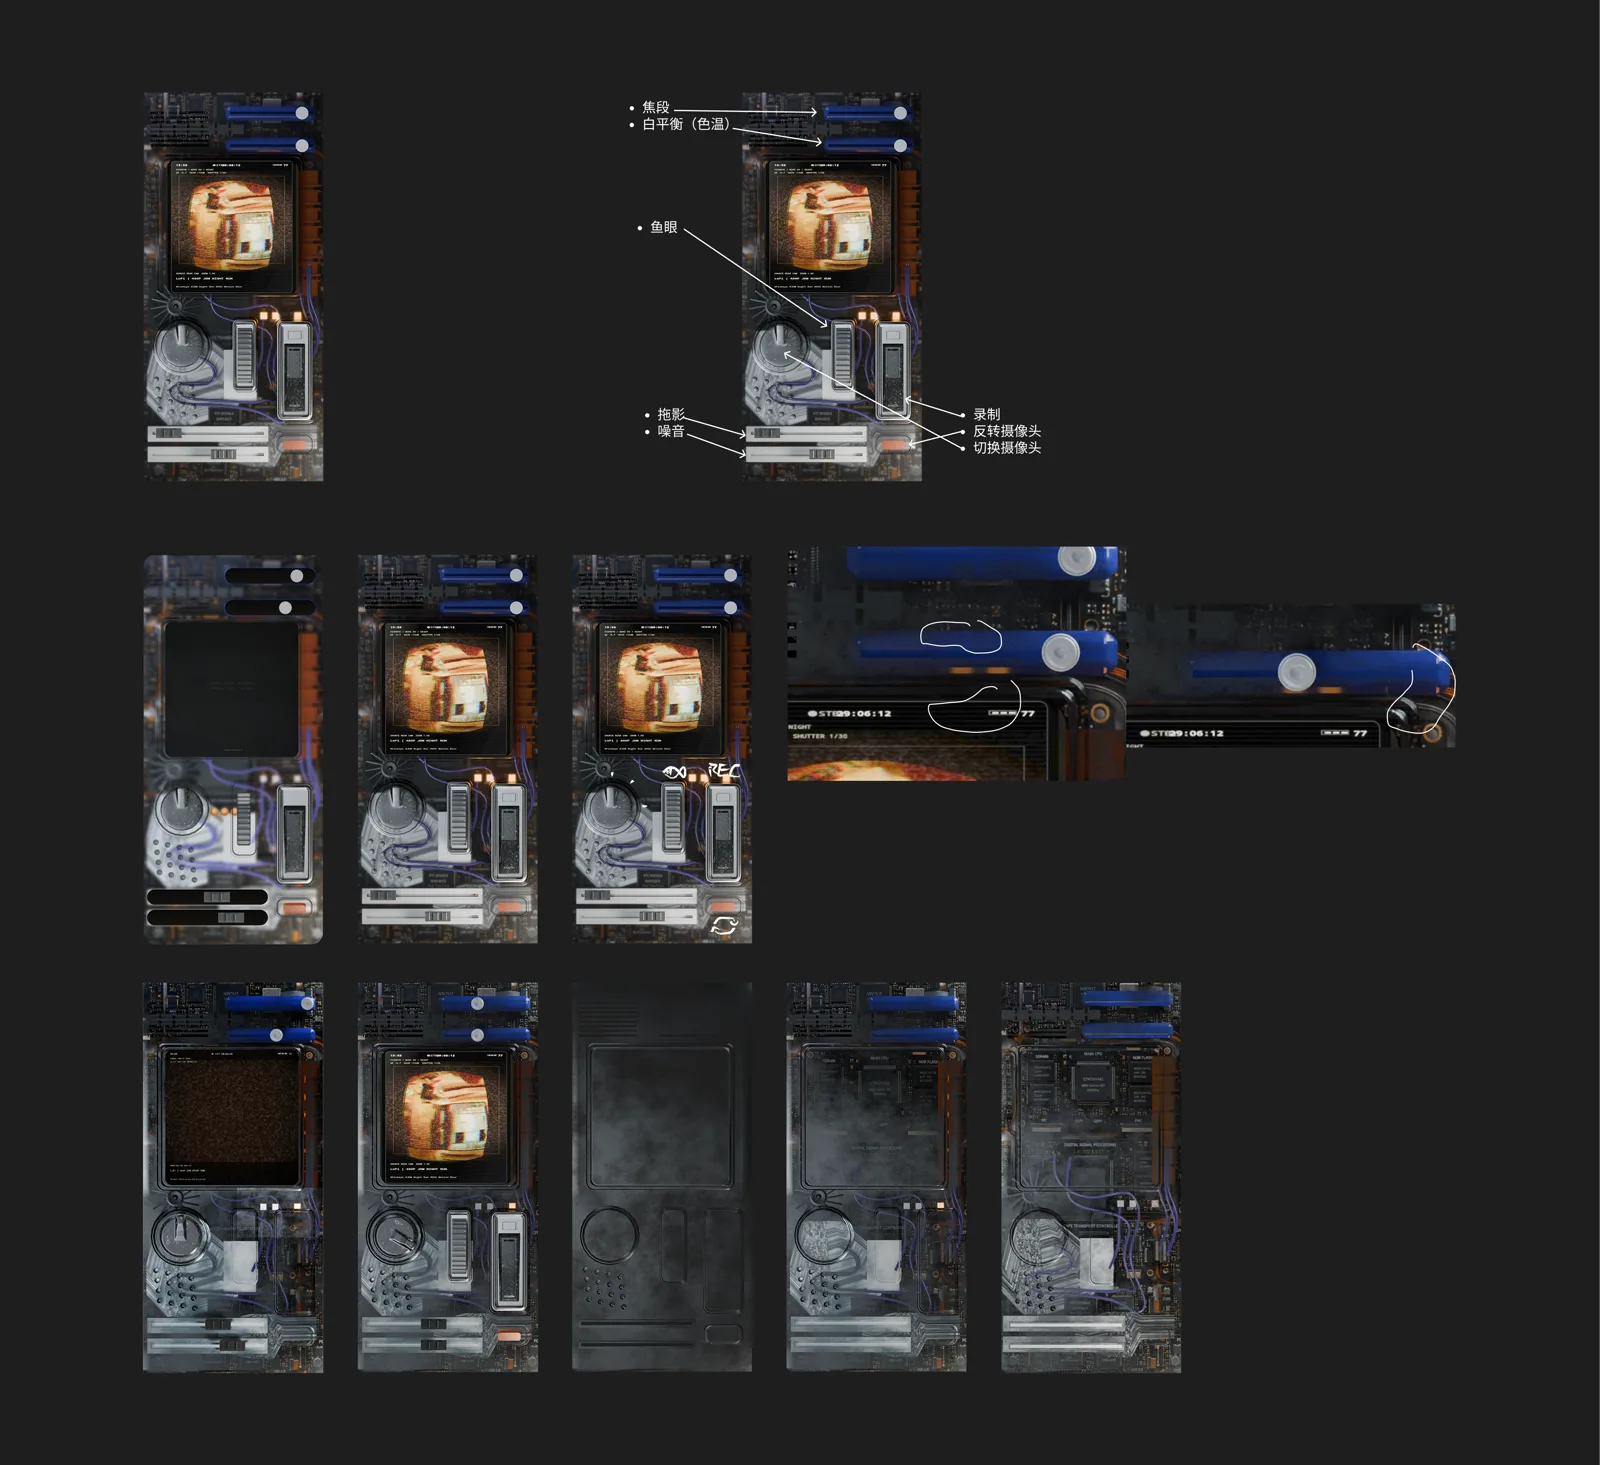
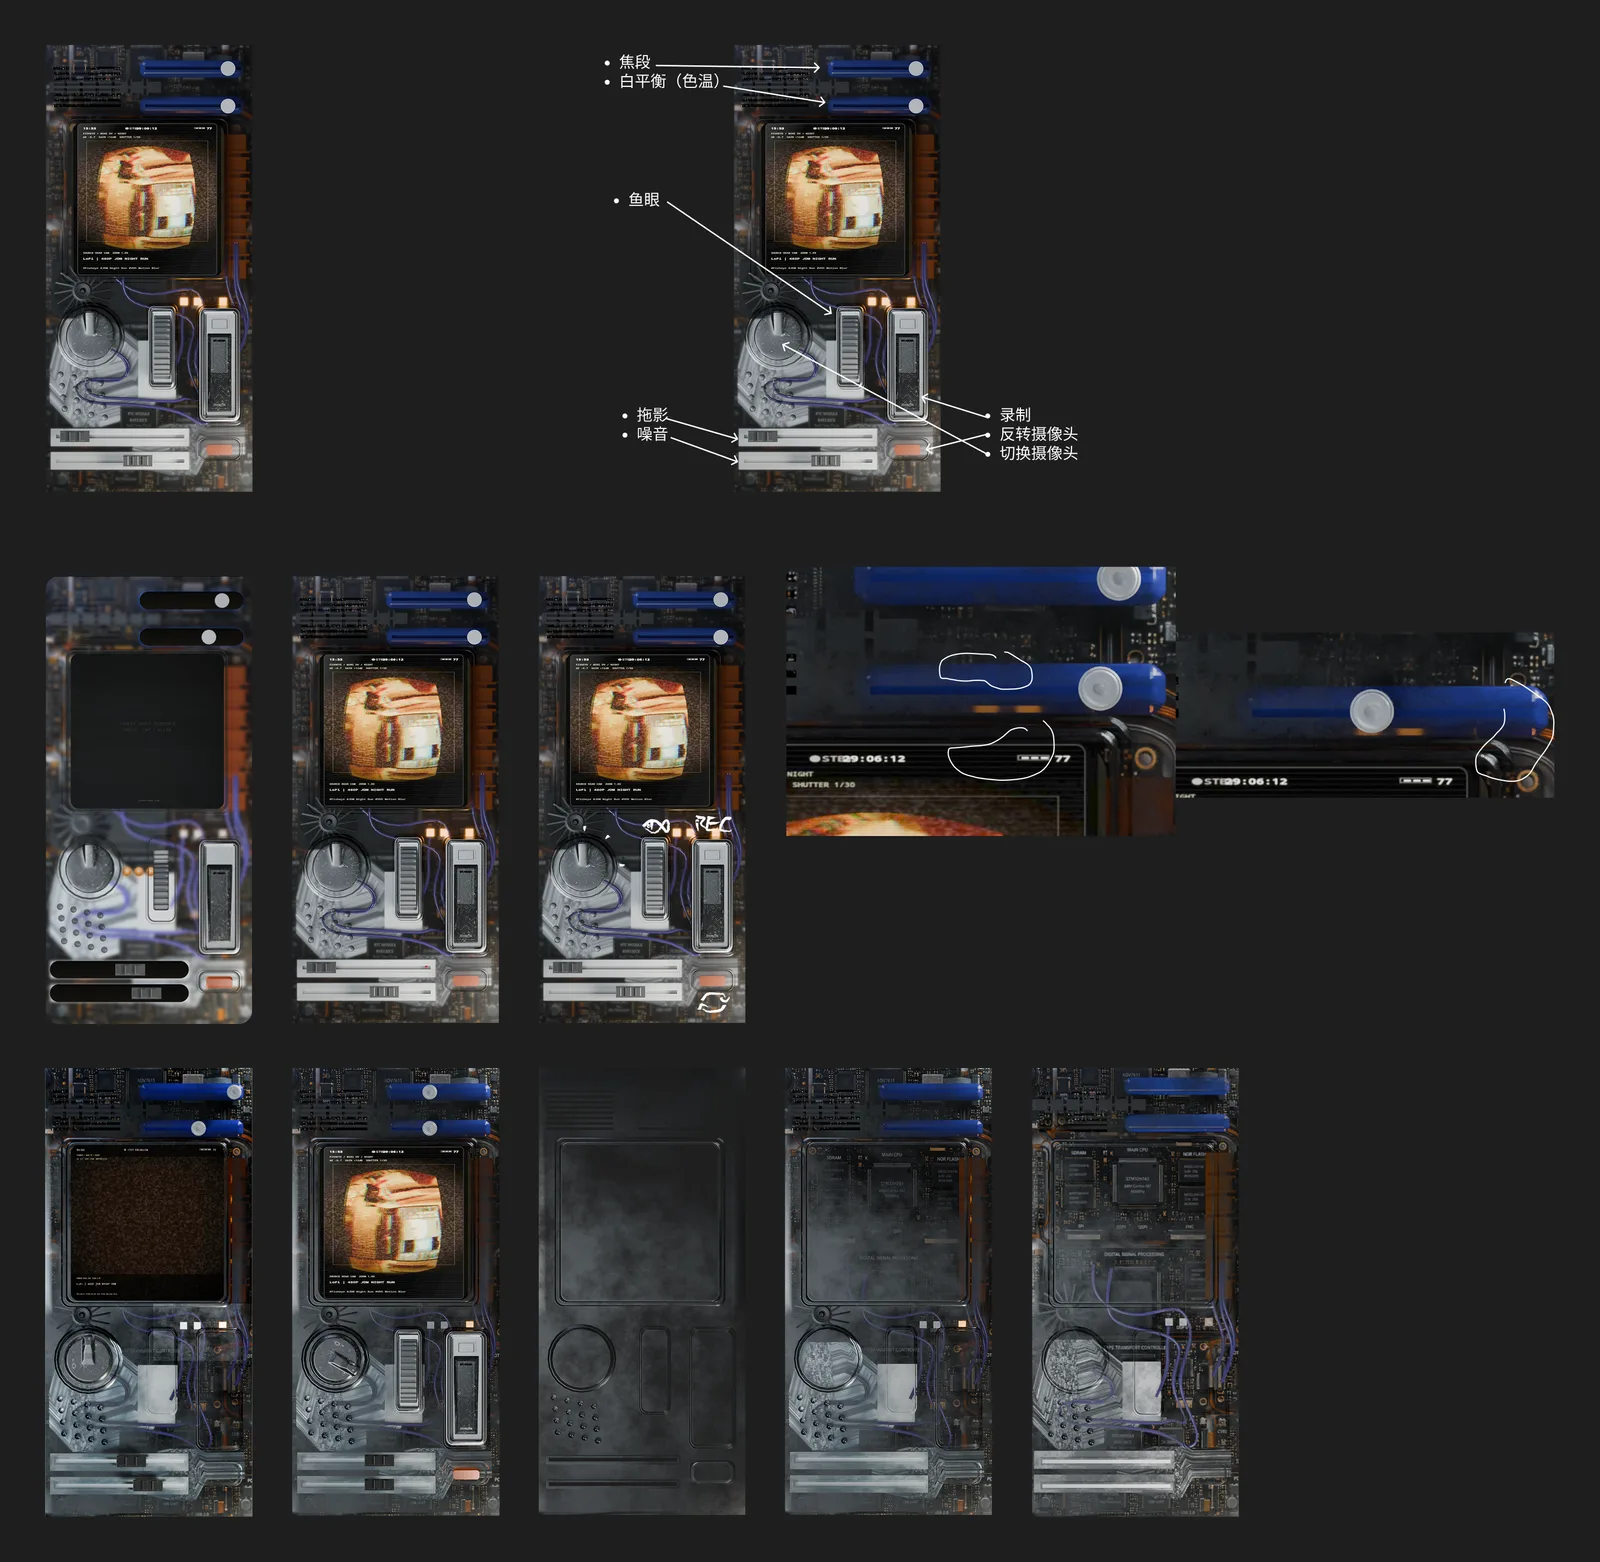
redesign: 配图去黑边 + 内容放大，幻灯片支持滚轮翻页
黑边：配图是 contain，比例和配图区对不上时四周露出衬底，而衬底写死
#0c0c0b —— 幽灵的图是浅灰画布（#f1f1f1）、相机的是深灰（#1e1e1e），
一个色不可能都合。改成构建时读图四角的画布色当衬底（四角不一致就
回落深色），露出来的部分和图自己的画布融成一块，以后放任何图都不用管。

放大：图按高度撑满，上下的纯色空白等于白吃可用高度。按内容包围盒把
空白裁掉再补 3% 留白，内容占高从 65~93% 提到 91~94%：幽灵 b2 +22%、
b3 +15%，相机 a2 +40%、a4 +7%、a3 +8%、a1 +1%。一个像素的内容都没裁。
（没用 sharp 的 trim()：它在这些带 alpha 的 PNG 上漏裁，b2 该裁成
2420×2420 只给到 2923×3135，纵向一点没动，所以自己扫包围盒。）

滚轮翻页：翻完上锁、等滚轮停 120ms 再解锁，触控板一次惯性划动只翻一页；
文字栏能滚就先滚它，滚到头再翻页。

Changed region(s): [[0.0312, 0.3686, 0.7812, 0.9829], [0.375, 0.0307, 0.9688, 0.5529], [0.0312, 0.0307, 0.2188, 0.3379]]

diff --git a/src/lib/slides.ts b/src/lib/slides.ts
@@ -4,13 +4,58 @@
 // 特例：盲盒（图片驱动）；跳过：合集 / PDF / 待补项目（回落 /works/<slug> 独立页）。
 
 import fs from 'node:fs';
+import sharp from 'sharp';
 
-export type SlideImg = { src: string } | { video: string } | { html: string } | { ph: string };
+export type SlideImg =
+  | { src: string; bg?: string }
+  | { video: string }
+  | { html: string }
+  | { ph: string };
+
+// 配图在幻灯片里是 contain（完整显示不裁切），图的比例和配图区对不上时四周会露出衬底。
+// 写死一个衬底色不行：幽灵的图是浅灰画布、相机的是深灰，同一个色总有一边露出黑边。
+// 所以取图自己四角的颜色当衬底 —— 露出来的部分和图的画布融成一块，看不出边。
+// 四角颜色不一致（内容顶到边，比如满幅照片）就别猜，回落深色。
+const FALLBACK_BG = '#0c0c0b';
+
+async function canvasColor(file: string): Promise<string | undefined> {
+  try {
+    const { width, height } = await sharp(file).metadata();
+    if (!width || !height) return undefined;
+    const N = 4;
+    const spots = [
+      { left: 0, top: 0 },
+      { left: width - N, top: 0 },
+      { left: 0, top: height - N },
+      { left: width - N, top: height - N },
+    ];
+    const corners: number[][] = [];
+    for (const s of spots) {
+      // 注意：stats() 是读原图的、会绕过 extract()，取局部得走 raw()
+      const { data, info } = await sharp(file)
+        .extract({ ...s, width: N, height: N })
+        .raw()
+        .toBuffer({ resolveWithObject: true });
+      const c = [0, 1, 2].map(k => {
+        let sum = 0;
+        for (let i = 0; i < data.length; i += info.channels) sum += data[i + k];
+        return Math.round(sum / (data.length / info.channels));
+      });
+      corners.push(c);
+    }
+    const avg = [0, 1, 2].map(k => Math.round(corners.reduce((s, c) => s + c[k], 0) / corners.length));
+    const spread = Math.max(...corners.flatMap(c => c.map((v, k) => Math.abs(v - avg[k]))));
+    if (spread > 12) return undefined;
+    return '#' + avg.map(v => v.toString(16).padStart(2, '0')).join('');
+  } catch {
+    return undefined;
+  }
+}
 
 // 读 public/works/<slug>/slides/ 下按序号命名的配图/视频/HTML：N.ext → 第 N 张幻灯片
 // （0 = 封面，1 = 第一个小节，依次）。图 = jpg/png/webp，视频 = mp4/webm（静音循环），
 // html = 可交互嵌入（iframe，比如 canvas 动画 demo）。
-function slideMedia(slug: string): Map<number, SlideImg> {
+async function slideMedia(slug: string): Promise<Map<number, SlideImg>> {
   const map = new Map<number, SlideImg>();
   try {
     const dir = `public/works/${slug}/slides`;
@@ -21,7 +66,11 @@ function slideMedia(slug: string): Map<number, SlideImg> {
       const ext = m[2].toLowerCase();
       map.set(
         Number(m[1]),
-        ext === 'html' ? { html: src } : /mp4|webm/.test(ext) ? { video: src } : { src }
+        ext === 'html'
+          ? { html: src }
+          : /mp4|webm/.test(ext)
+            ? { video: src }
+            : { src, bg: await canvasColor(`${dir}/${f}`) }
       );
     }
   } catch {}
@@ -44,7 +93,7 @@ export type Slide =
       img: SlideImg;
       side?: 'left' | 'right';
     }
-  | { layout: 'image'; img: { src: string } | { video: string } | { html: string }; caption?: string; captionEn?: string }
+  | { layout: 'image'; img: { src: string; bg?: string } | { video: string } | { html: string }; caption?: string; captionEn?: string }
   | { layout: 'gallery'; imgs: { src: string }[] }
   | {
       layout: 'links';
@@ -90,11 +139,11 @@ function sectionBody(lines: string[]): string[] {
 const isTools = (h: string) => /使用工具|built with|tools/i.test(h);
 
 // ---------- 通用：从正文自动拆幻灯片 ----------
-function genericSlides(work: any, enBody?: string): Slide[] {
+async function genericSlides(work: any, enBody?: string): Promise<Slide[]> {
   const d = work.data;
   const zh = parseSections(work.body || '');
   const en = enBody ? parseSections(enBody) : [];
-  const media = slideMedia(work.id); // 序号 → 配图/视频，按 slides/ 目录
+  const media = await slideMedia(work.id); // 序号 → 配图/视频，按 slides/ 目录
   const slides: Slide[] = [];
   const links = (d.links || []).map((l: any) => ({ label: l.label, labelEn: l.labelEn || l.label, url: l.url }));
 
@@ -167,9 +216,9 @@ function blindBoxSlides(work: any): Slide[] {
 // 走独立页兜底（合集 / PDF）
 const SKIP = new Set(['modeling', 'ux-study-portfolio']);
 
-export function buildSlides(work: any, enBody?: string): Slide[] | null {
+export async function buildSlides(work: any, enBody?: string): Promise<Slide[] | null> {
   if (work.id === 'blind-box') return blindBoxSlides(work);
   if (SKIP.has(work.id)) return null;
-  if (work.body && /^##\s/m.test(work.body)) return genericSlides(work, enBody);
+  if (work.body && /^##\s/m.test(work.body)) return await genericSlides(work, enBody);
   return null;
 }
